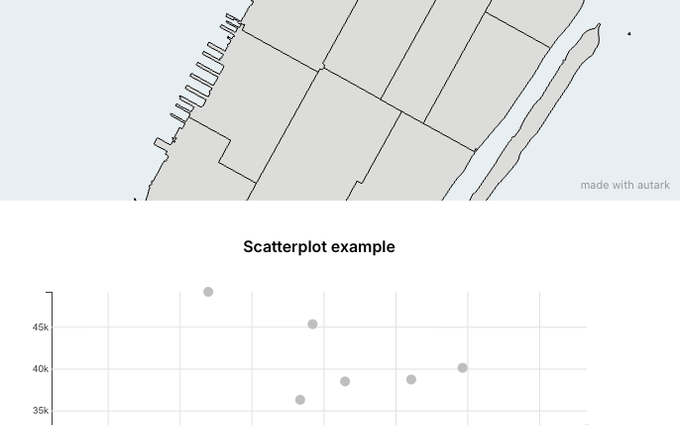
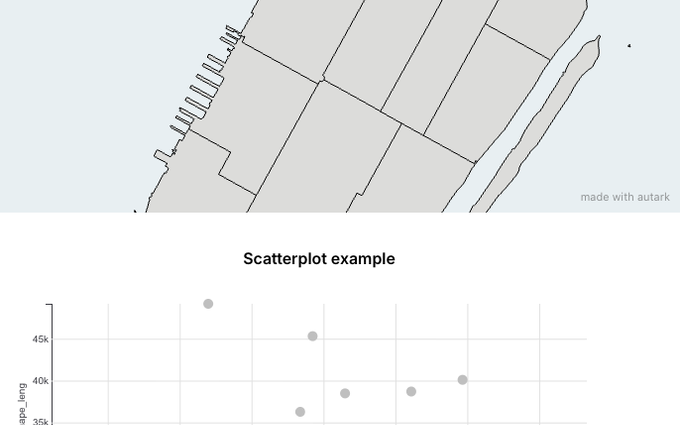
autk-grammar 5.2.0: every new plot key, and the plot-colors example (#8)
* Pin autk-grammar 5.2.0

* Add the plot-colors example

* Show autk-plot's axis titles in the playground

* Grammar guide: the autk-grammar 5.2.0 plot keys

* Card for plot-colors

* Re-shoot the plot cards, which now show axis titles

* Grammar guide: both adapters from the main entry

diff --git a/guide/.vitepress/theme/data/grammarExamples.ts b/guide/.vitepress/theme/data/grammarExamples.ts
@@ -315,6 +315,13 @@ export const GRAMMAR_EXAMPLES: GrammarExample[] = [
     tags: ['data', 'map', 'plot'],
   },
   {
+    slug: 'plot-colors',
+    group: 'Plots',
+    title: 'Plot Colors',
+    description: 'Draw the ten Manhattan neighborhoods with the most noise complaints on a map and in a bar chart side by side, both in reds over one range, so a count has one color in both. The chart titles its axes and selects the noisiest neighborhood, which the map highlights.',
+    tags: ['data', 'map', 'plot'],
+  },
+  {
     slug: 'multi-map',
     group: 'Multiple Views',
     title: 'Two Maps',

diff --git a/guide/.vitepress/theme/components/CodePlayground.vue b/guide/.vitepress/theme/components/CodePlayground.vue
@@ -818,6 +818,11 @@ watch(isDark, () => {
   text-align: center !important;
 }
 
+/* autk-plot draws its axis titles inside the axis groups, whose fill is none, and leaves their color to the page. */
+.code-playground :deep(.axis-label) {
+  fill: currentColor;
+}
+
 .code-playground__console {
   border-top: 1px solid var(--vp-c-divider);
   background: var(--vp-code-block-bg);

diff --git a/guide/grammar/index.md b/guide/grammar/index.md
@@ -58,7 +58,7 @@ await grammar.run(spec)
 - Load **OpenStreetMap**, **GeoJSON**, **CSV**, **JSON**, and **GeoTIFF** data, derive tables with **spatial joins**, **heatmaps**, and **SQL queries**, update or drop tables along the way, and keep areas apart in **workspaces**, in the coordinate system you choose.
 - Run **GPU computations** written in WGSL over feature attributes, and **render passes** that measure what can be seen from each viewpoint.
 - Draw **2D and 3D maps** with categorical, sequential, and diverging colormaps, seen from a **camera** you can tilt and turn.
-- Draw **linked plots** (bar charts, scatterplots, histograms, parallel coordinates, tables, heat matrices, and time series) that select features on the map.
+- Draw **linked plots** (bar charts, scatterplots, histograms, parallel coordinates, tables, heat matrices, and time series) that select features on the map, colored in the map's schemes, with your own axis titles and tick formats.
 - React to selections and drive highlights **from your own code**.
 
 The grammar itself is tool-agnostic: `autk-grammar` is the adapter that runs it on Autark. The source code is on [GitHub](https://github.com/urban-toolkit/autk-grammar).
@@ -351,7 +351,7 @@ An entry of `uniforms` or `uniformMatrices` can read its value from a feature of
 
 | Field | Description |
 |---|---|
-| `fromFeature.layer` | Table to read from. |
+| `fromFeature.layer` | Table to read from: as an earlier pass wrote it; else, when a GeoJSON source loaded it with its coordinates in its workspace's coordinate system, as the source gave its features, each building part with its own outline; else as autk-db keeps it, a buildings table's geometry inside a GeometryCollection. See [Passes run by a host](#passes-run-by-a-host). |
 | `fromFeature.path` | Dot path from the feature's root, for example `properties.height` or `geometry.coordinates.0`. |
 | `fromFeature.index` | Position of the feature to read. Defaults to 0. |
 | `fromFeature.iterate` | `'all'` runs the pass once per feature of `layer` and sums the outputs. `'batched'` packs every feature's value into a uniform array named after the entry (a `uniformMatrices` entry becomes each feature's bounding box, as four corners), adds a `num_features` uniform, and runs the pass once. |
@@ -449,17 +449,99 @@ See the [Map Camera](/grammar/examples/map-camera) example.
 | `id` | Name of the plot, which a [link](#links) uses as its `source`. Unique among the ids of the maps and plots. Without it, the plot is known by its `dataRef`. |
 | `dataRef` | Table to plot. |
 | `workspace` | [Workspace](#workspaces) the table is read from. |
-| `mark` | `'bar'`, `'scatter'`, `'linechart'`, `'parallel-coordinates'`, `'table'`, or `'heatmatrix'`. |
-| `axis` | Properties for the axes. Use `'@transform'` for a value produced by `transform`. |
+| `mark` | `'bar'`, `'scatter'`, `'linechart'` (or `'line'`), `'parallel-coordinates'`, `'table'`, or `'heatmatrix'`. |
+| `axis` | Properties for the axes. Use `'@transform'` for a value produced by `transform`, whose axis is titled `value` unless `axisLabels` titles it. |
 | `transform` | `{ preset, options }`, with presets such as `binning-1d`, `binning-2d`, `binning-events`, and `sort`. |
+| `color` | Column whose values color the marks. See [Plot colors](#plot-colors). |
+| `colorMapInterpolator`, `categoricalColorMapInterpolator` | Color schemes of the marks colored by numbers and of those colored by categories. See [Plot colors](#plot-colors). |
+| `colorMapRange`, `colorMapDomain`, `normalization` | Domain of the color scale, named and shaped as a map layer's. See [Plot colors](#plot-colors). |
+| `tickFormats` | d3-format specifiers of the tick labels, `[x, y]`. See [Axes](#axes). |
+| `axisLabels` | Titles of the axes, in the order of `axis`. See [Axes](#axes). |
+| `markColor`, `highlightColor` | Colors of the marks and of the selected marks, one of each for the whole page. See [Mark and highlight colors](#mark-and-highlight-colors). |
 | `events` | Selections the plot emits: `'click'`, `'brush'`, `'brushX'`, `'brushY'`. |
+| `selection` | Rows selected as the plot is drawn. See [Selected rows](#selected-rows). |
 | `mapRef` | Table of the map layers linked to the plot: the plot is linked to every layer that draws it, in every map. Selections in either one highlight the other. A shorthand for [`links`](#links). |
 | `osmElements` | `true` plots an OpenStreetMap layer table as one row per OpenStreetMap element, with its tags, `osm_type`, and `osm_id`: see [OpenStreetMap elements](#openstreetmap-elements). |
-| `title`, `width`, `height`, `margins`, `color` | Presentation. `margins` is `{ left, right, top, bottom }`. |
+| `title`, `width`, `height`, `margins` | Presentation. `margins` is `{ left, right, top, bottom }`. |
 
 To draw several plots, give `plot` an array of plot specs and the constructor's `plot` target an array of ids, one `<div>` per plot, in order. A plot reads only its table's properties, so it also draws a table without geometry, such as a CSV or JSON table loaded without `geometryColumns`.
 
 See the [Plots](/grammar/examples/barchart-click) examples.
+
+### Plot colors
+
+A plot colors its marks by the values of its `color` column: a scatter plot's points, a bar chart's bars, and the lines of parallel coordinates, which a click on an axis's title colors by that axis instead. A heat matrix colors its cells by their values, with `color: '@transform'`. Line charts and tables color no mark by value. When every value is a number, or a string that reads as one, the marks take the scheme of numbers; otherwise the values are categories, and take the scheme of categories.
+
+| Field | Description |
+|---|---|
+| `colorMapInterpolator` | Scheme of numbers: a sequential or diverging `interpolate*` scheme, `'interpolateReds'` by default. The low end of the scale takes its first color, and the high end its last. |
+| `categoricalColorMapInterpolator` | Scheme of categories: a `scheme*` scheme, `'schemeObservable10'` by default. The categories take its colors in the order they first appear, or in the order of `colorMapDomain`, and those past its last color take that one. |
+| `colorMapRange` | `[low, high]`, with low less than high: the ends of the scale of numbers, in place of the plot's own lowest and highest values. A plot colored by categories ignores it, as a layer with a categorical scheme does. Not with `colorMapDomain`. |
+| `colorMapDomain` | Categories the plot is colored over, in order: the first takes the scheme's first color, and so on. The values are read as categories, numbers too, and a mark whose value it does not name is drawn in the mark color. |
+| `normalization` | How the ends of the scale of numbers are found: `{ mode: 'minMax' }`, the default, takes the lowest and highest values, and `{ mode: 'percentile', lowerPercentile, upperPercentile }` the values at those percentiles, 2 and 98 when it gives neither, else 0 and 100 for the one it leaves out. |
+
+A run refuses a `scheme*` name in `colorMapInterpolator` and an `interpolate*` name in `categoricalColorMapInterpolator`, with a message that names the plot. `colorMapRange`, `colorMapDomain`, and `normalization` are named and shaped as a map layer's, so a plot and a layer that set the same scheme and the same range color a value alike. Parallel coordinates read them for their `color` column, and keep them for any axis a click on its title colors the lines by: under a `colorMapRange`, an axis of categories colors no line.
+
+```ts
+map: { id: 'noiseMap', layerRefs: [{ dataRef: 'noisiest', getFnv: 'complaints', colorMapInterpolator: 'interpolateReds', colorMapRange: [0, 80] }] },
+plot: { dataRef: 'noisiest', mark: 'bar', axis: ['name', 'complaints'], color: 'complaints', colorMapInterpolator: 'interpolateReds', colorMapRange: [0, 80] },
+```
+
+```ts
+plot: { dataRef: 'neighborhoods', mark: 'bar', axis: ['ntaname', 'shape_area'], color: 'landuse', categoricalColorMapInterpolator: 'schemeSet2', colorMapDomain: ['Residential', 'Mixed', 'Commercial'] }
+```
+
+```ts
+plot: { dataRef: 'neighborhoods', mark: 'scatter', axis: ['shape_area', 'shape_leng'], color: 'shape_area', colorMapInterpolator: 'interpolateViridis', normalization: { mode: 'percentile', lowerPercentile: 5, upperPercentile: 95 } }
+```
+
+See [Plot Colors](/grammar/examples/plot-colors), whose map and bar chart color the ten noisiest neighborhoods alike.
+
+### Axes
+
+**`tickFormats`** gives the d3-format specifiers of the tick labels, `[x, y]`, such as `'~s'`, `',d'`, `'.2f'`, or `'.0%'`. Without it, `['~s', '~s']`. A run refuses a list that is not two specifiers d3-format reads.
+
+| Mark | Reads |
+|---|---|
+| `scatter` | x for the x axis, and y for the y axis. |
+| `bar` | x for the labels of the x axis that read as numbers, and y for the y axis. |
+| `linechart` | x for the buckets of the x axis that read as numbers, and y for the y axis. |
+| `parallel-coordinates` | x for every axis of numbers. |
+| `heatmatrix`, `table` | Neither. |
+
+```ts
+plot: { dataRef: 'neighborhoods', mark: 'scatter', axis: ['shape_area', 'shape_leng'], tickFormats: ['.2s', ',.0f'] }
+```
+
+**`axisLabels`** titles the axes, in the order of `axis`, in place of the column names: the x and y titles of a scatter plot, a bar chart, a line chart, and a heat matrix, each axis's title of parallel coordinates, and a table's column headers. An axis without a title keeps its column's name, and an axis that holds a transform's output, `@transform`, is titled `value`. A run refuses more titles than `axis` has columns, and two titles alike, since a table finds the column to sort by its header.
+
+```ts
+plot: { dataRef: 'neighborhoods', mark: 'bar', axis: ['shape_area', '@transform'], transform: { preset: 'binning-1d' }, axisLabels: ['Area', 'Neighborhoods'] }
+```
+
+### Mark and highlight colors
+
+| Field | Description |
+|---|---|
+| `markColor` | Color of the marks that are neither colored by value nor selected, `'#rrggbb'`. autk-plot's is `#bfbfbf`. |
+| `highlightColor` | Color of the selected marks, and of a table's selected rows, `'#rrggbb'`. autk-plot's is `#5dade2`. |
+
+Both colors are page-wide. autk-plot keeps one mark color and one highlight color for the whole page, which every plot on it reads as it draws and as it shows a selection. So the plots of one spec cannot differ: a run refuses two plots that set different ones, and a plot that sets neither takes the others'. Each run that draws plots sets the colors for the page, for the plots of other specs too, and a run whose plots set neither gives back autk-plot's own: each run draws in the colors its spec gives. A run that draws no plot, such as a map-only or data-only spec, leaves them as they are.
+
+```ts
+plot: [
+  { id: 'areas', dataRef: 'neighborhoods', mark: 'bar', axis: ['ntaname', 'shape_area'], markColor: '#4e79a7', highlightColor: '#e15759' },
+  { id: 'shapes', dataRef: 'neighborhoods', mark: 'scatter', axis: ['shape_area', 'shape_leng'] }, // drawn in the same colors
+]
+```
+
+### Selected rows
+
+`selection` lists the rows a plot selects as it is drawn, by their feature ids: their positions among the rows the plot draws, from 0, as `plot:selection` events and `setPlotSelection` give them. The run applies it once the plots and their links exist, as `setPlotSelection` does: the plot draws the rows in its highlight color (a binned plot, the bins that hold them), and the layers it is linked to, by `mapRef` or `links`, highlight the same rows. No `plot:selection` event reports it. A run refuses a feature id that is not a whole number from 0, or one past the plot's last row.
+
+```ts
+plot: { dataRef: 'neighborhoods', mark: 'scatter', axis: ['shape_area', 'shape_leng'], mapRef: 'neighborhoods', selection: [0, 4] }
+```
 
 ### Links
 
@@ -528,7 +610,7 @@ const { map, layerId } = grammar.mapLayer('neighborhoods')
 grammar.destroy()
 ```
 
-The calls name map layers by the table they draw. Each reaches every map that draws the table, or only the map its last argument, `mapId`, names: a string by the map's `id`, a number by its index in `map`. A `map:picking` event's `mapId` names the map the pick was made on, so it can be passed back as it is, and its `layerId` is the picked layer's id in that map: its `title`, else its `dataRef`. A plot is named by its `id`, else its `dataRef`: that name is the `plotId` of its `plot:selection` events, and the one `setPlotSelection` and `clearHighlightOnPlot` take.
+The calls name map layers by the table they draw. Each reaches every map that draws the table, or only the map its last argument, `mapId`, names: a string by the map's `id`, a number by its index in `map`. A `map:picking` event's `mapId` names the map the pick was made on, so it can be passed back as it is, and its `layerId` is the picked layer's id in that map: its `title`, else its `dataRef`. A plot is named by its `id`, else its `dataRef`: that name is the `plotId` of its `plot:selection` events, and the one `setPlotSelection` and `clearHighlightOnPlot` take. A plot's [`selection`](#selected-rows) makes the same selection as `setPlotSelection`, as the plot is drawn.
 
 `selectFields` on a layer or a plot, for example `selectFields: ['nta2020']`, names the columns whose values identify the selected rows, for an app that links a selection to other tables. The grammar does not read it: the events still report feature ids, and the app reads those columns from the selected rows.
 
@@ -543,7 +625,7 @@ A host that runs parts of a spec itself, a server that loads its tables for exam
 | Export | Purpose |
 |---|---|
 | `createDataAdapter(targets?, cache?)` | The data adapter. Its `resolveWorkspaces(db, workspaces)` sets up a spec's `workspaces` before the first source loads, and its `resolveSource(db, source)` loads one `data` entry. Each takes an autk-db database, a new one when `db` is undefined, and returns it. `cache` receives each GeoJSON table and each table a join or an update wrote. |
-| `createComputeAdapter(cache?, types?)` | The compute adapter. Its `resolveCompute(db, pass)` runs one `compute` entry on the GPU. The results are kept only in `cache`, and `types` receives the layer type of each table a pass wrote under its own `outputTableName`. |
+| `createComputeAdapter(cache?, types?, sources?)` | The compute adapter. Its `resolveCompute(db, pass)` runs one `compute` entry on the GPU. The results are kept only in `cache`, and `types` receives the layer type of each table a pass wrote under its own `outputTableName`. `sources` is the `cache` given to `createDataAdapter`, from which a pass reads a `fromFeature` table a GeoJSON source loaded (see [Passes run by a host](#passes-run-by-a-host)). |
 | `enterWorkspace(db, workspace?)` | Makes an entry's workspace, or the default one when it names none, the one autk-db works in. Every adapter calls it before it reads or writes an entry's tables. |
 | `tableKey(workspace, name)` | The key of a table in those caches: its name in the default workspace, `<workspace>/<name>` in another. |
 | `applyCamera(map, camera)` | Moves an `AutkMap`'s camera as a map's `camera` says, from the view that fits its layers, and refuses a `pitch` that is not at least 0 and less than 90. The map adapter calls it once the layers are loaded, before the map first draws. |
@@ -558,6 +640,28 @@ const adapter = createDataAdapter()
 let db: unknown // the AutkDb the first call creates
 if (spec.workspaces) db = await adapter.resolveWorkspaces(db, spec.workspaces)
 for (const source of spec.data ?? []) db = await adapter.resolveSource(db, source)
+```
+
+`AutkGrammar.run` refuses the plot keys autk-plot cannot draw, naming the plot, before it draws any view. A page that hosts several grammars shares one plot mark color and one highlight color, which each run that draws plots sets (see [Mark and highlight colors](#mark-and-highlight-colors)).
+
+#### Passes run by a host
+
+A pass reads a `fromFeature` table as an earlier pass wrote it, from the compute adapter's `cache`. Else, when a GeoJSON source of the run loaded the table with its coordinates in its workspace's coordinate system, it reads the features as the source gave them, from `sources`. Else it reads the table as autk-db keeps it. The difference shows on a `buildings` table: autk-db keeps each of its features in its building model, with the geometry inside a GeometryCollection, so a path such as `geometry.coordinates.0` reads a building part's outline only from the source's own features. The pass's own `dataRef` is never read from `sources`: it is read as an earlier pass wrote it, else as autk-db keeps it, as a map draws it, so its result holds the rows the map draws.
+
+`AutkGrammar` hands its data adapter's cache to its compute adapter. A host that runs the passes itself does the same, so its passes read what the grammar's do: it passes the map it gave `createDataAdapter` as `sources`. The data adapter notes the coordinate system of each GeoJSON source it puts there, so a pass reads only those collections, and only when their coordinates are in the workspace's coordinate system: a source in degrees, in a workspace in World Mercator, is read from autk-db. A host that leaves `sources` out reads autk-db's copy.
+
+Take both adapters from the main entry, `@urban-toolkit/autk-grammar`. The `./data` entry is a bundle of its own, and the compute adapter cannot read the notes of a data adapter taken from it, so its passes read autk-db's copy, as without `sources`.
+
+```ts
+import { createComputeAdapter, createDataAdapter } from '@urban-toolkit/autk-grammar'
+
+const sources = new Map() // each GeoJSON source's features, as the source gave them
+const data = createDataAdapter(undefined, sources)
+const compute = createComputeAdapter(new Map(), new Map(), sources)
+let db: unknown
+if (spec.workspaces) db = await data.resolveWorkspaces(db, spec.workspaces)
+for (const source of spec.data ?? []) db = await data.resolveSource(db, source)
+for (const pass of spec.compute ?? []) db = await compute.resolveCompute(db, pass)
 ```
 
 #### Arranging the views

diff --git a/guide/grammar/examples/plot-colors.md b/guide/grammar/examples/plot-colors.md
@@ -1,0 +1,103 @@
+---
+title: 'Plot Colors'
+aside: true
+outline: deep
+---
+
+<script setup>
+const spec = `
+{
+  layout: { type: 'horizontal', gap: 12 },
+  data: [
+    {
+      type: 'geojson',
+      geojsonFileUrl: '/data/mnt_neighs.geojson',
+      outputTableName: 'neighborhoods',
+      coordinateFormat: 'EPSG:4326',
+    },
+    {
+      type: 'csv',
+      csvFileUrl: '/data/noise.csv',
+      outputTableName: 'noise',
+      geometryColumns: {
+        latColumnName: 'Latitude',
+        longColumnName: 'Longitude',
+        coordinateFormat: 'EPSG:4326',
+      },
+    },
+    {
+      type: 'join',
+      dataRef: 'neighborhoods',
+      joinDataRef: 'noise',
+      groupBy: [{ column: 'Unique Key', aggregateFn: 'count' }],
+    },
+    {
+      type: 'sql',
+      outputTableName: 'noisiest',
+      query: "SELECT properties->>'ntaname' AS name, CAST(properties->'sjoin'->'count'->>'noise' AS INTEGER) AS complaints, geometry FROM neighborhoods ORDER BY complaints DESC NULLS LAST LIMIT 10",
+      layerType: 'polygons',
+    },
+  ],
+  map: {
+    id: 'noiseMap',
+    layerRefs: [
+      { dataRef: 'neighborhoods', title: 'Manhattan neighborhoods', color: '#d9d9d9' },
+      {
+        dataRef: 'noisiest',
+        title: 'Noise complaints',
+        getFnv: 'complaints',
+        colorMapInterpolator: 'interpolateReds',
+        colorMapRange: [0, 80],
+      },
+    ],
+  },
+  plot: {
+    id: 'noiseChart',
+    dataRef: 'noisiest',
+    mark: 'bar',
+    axis: ['name', 'complaints'],
+    color: 'complaints',
+    colorMapInterpolator: 'interpolateReds',
+    colorMapRange: [0, 80],
+    axisLabels: ['Neighborhood', 'Noise complaints'],
+    title: 'The ten noisiest neighborhoods',
+    selection: [0],
+    highlightColor: '#1f77b4',
+    events: ['click'],
+    width: 300,
+    height: 460,
+    margins: { left: 60, right: 20, top: 50, bottom: 170 },
+  },
+  links: [{ source: 'noiseChart', target: 'noiseMap', layer: 'Noise complaints' }],
+}
+`
+</script>
+
+<div class="case-tags">
+  <a class="case-tag case-tag--data" href="/grammar/#data">data</a>
+  <a class="case-tag case-tag--map" href="/grammar/#map">map</a>
+  <a class="case-tag case-tag--plot" href="/grammar/#plot">plot</a>
+</div>
+
+# Plot Colors
+
+Draw the ten Manhattan neighborhoods with the most noise complaints on a map and in a bar chart side by side, both in reds over one range, so a count has one color in both. The chart titles its axes and selects the noisiest neighborhood, which the map highlights.
+
+## Live Playground
+
+<ClientOnly>
+  <CodePlayground :spec="spec" :auto-run="true" out="dom" />
+</ClientOnly>
+
+:::tip Interaction
+Click a bar to select its neighborhood: the map highlights it through the link.
+:::
+
+## Highlights
+
+- `colorMapInterpolator` and `colorMapRange` on the plot, as on the map layer
+- `axisLabels` titles the axes in place of the column names
+- `selection: [0]` selects the first bar as the chart is drawn, and the link highlights it on the map
+- `highlightColor` for the selected bar
+
+This example comes from the [autk-grammar repository](https://github.com/urban-toolkit/autk-grammar/blob/main/gallery/src/examples/plot-colors.ts).
